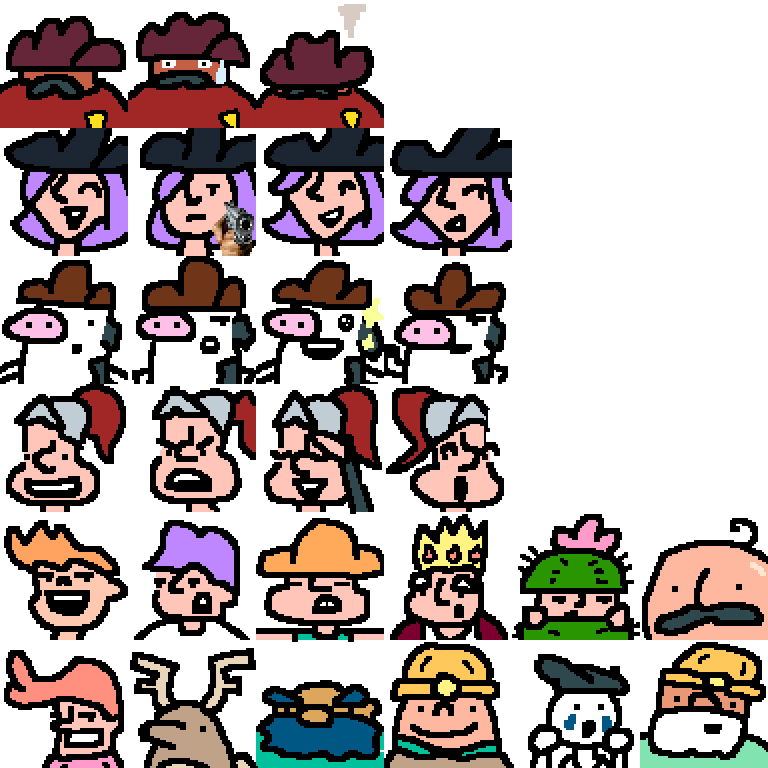
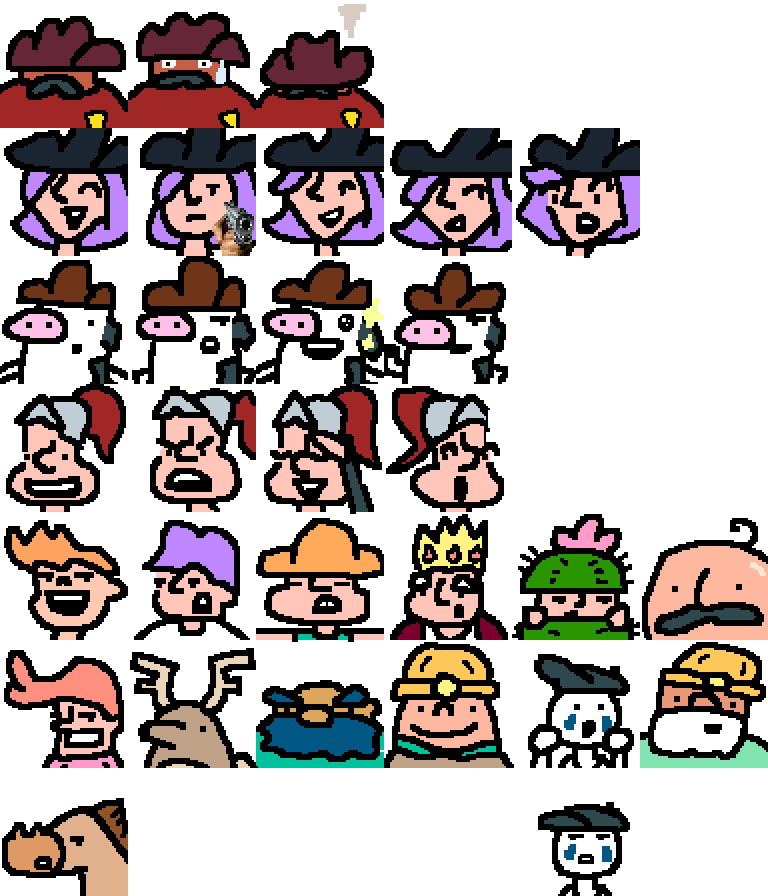
Lots of new dialog, place 1B npcs, add cubepig

diff --git a/Duel/DuelGameCartridge.cs b/Duel/DuelGameCartridge.cs
@@ -35,17 +35,17 @@ namespace Duel
             this.chapters.Add(new Chapter("level_1", PlayerTag.Type.Renegade, ZoneTileset.Thistown, Screenplay.GetConversation("renegade_intro_1A")));
             this.chapters.Add(new Chapter("level_1", PlayerTag.Type.Cowboy, ZoneTileset.Thistown, Screenplay.GetConversation("cowboy_intro_1A")));
             this.chapters.Add(new Chapter("level_1", PlayerTag.Type.Knight, ZoneTileset.Thistown, Screenplay.GetConversation("knight_intro_1A")));
-            this.chapters.Add(new Chapter("level_2", PlayerTag.Type.Sheriff, ZoneTileset.Thistown, emptyConvo));
+            this.chapters.Add(new Chapter("level_2", PlayerTag.Type.Sheriff, ZoneTileset.Thistown, Screenplay.GetConversation("sheriff_intro_1B")));
             this.chapters.Add(new Chapter("level_2", PlayerTag.Type.Renegade, ZoneTileset.Thistown, emptyConvo));
             this.chapters.Add(new Chapter("level_2", PlayerTag.Type.Cowboy, ZoneTileset.Thistown, emptyConvo));
             this.chapters.Add(new Chapter("level_2", PlayerTag.Type.Knight, ZoneTileset.Thistown, emptyConvo));
 
-            this.chapters.Add(new Chapter("level_3", PlayerTag.Type.Sheriff, ZoneTileset.Oasis, emptyConvo));
+            this.chapters.Add(new Chapter("level_3", PlayerTag.Type.Sheriff, ZoneTileset.Oasis, Screenplay.GetConversation("sheriff_intro_oasis")));
             this.chapters.Add(new Chapter("level_3", PlayerTag.Type.Renegade, ZoneTileset.Oasis, emptyConvo));
             this.chapters.Add(new Chapter("level_3", PlayerTag.Type.Cowboy, ZoneTileset.Oasis, emptyConvo));
             this.chapters.Add(new Chapter("level_3", PlayerTag.Type.Knight, ZoneTileset.Oasis, emptyConvo));
 
-            this.chapters.Add(new Chapter("level_4", PlayerTag.Type.Sheriff, ZoneTileset.Mines, emptyConvo));
+            this.chapters.Add(new Chapter("level_4", PlayerTag.Type.Sheriff, ZoneTileset.Mines, Screenplay.GetConversation("sheriff_intro_mine")));
             this.chapters.Add(new Chapter("level_4", PlayerTag.Type.Renegade, ZoneTileset.Mines, emptyConvo));
             this.chapters.Add(new Chapter("level_4", PlayerTag.Type.Cowboy, ZoneTileset.Mines, emptyConvo));
             this.chapters.Add(new Chapter("level_4", PlayerTag.Type.Knight, ZoneTileset.Mines, emptyConvo));

diff --git a/Duel/Data/Dialog/Speaker.cs b/Duel/Data/Dialog/Speaker.cs
@@ -16,6 +16,7 @@ namespace Duel.Data.Dialog
                 case "RenegadeGun": return RenegadeGun;
                 case "RenegadeSmirk": return RenegadeSmirk;
                 case "RenegadeEw": return RenegadeEw;
+                case "RenegadeShook": return RenegadeShook;
                 case "CowboyNormal": return CowboyNormal;
                 case "CowboySkeptical": return CowboySkeptical;
                 case "CowboyHope": return CowboyHope;
@@ -36,8 +37,11 @@ namespace Duel.Data.Dialog
                 case "Moleman": return Moleman;
                 case "Mime": return Mime;
                 case "Fourman": return Fourman;
-                default: return null;
+                case "Horse": return Horse;
+                case "MimeBroken": return MimeBroken;
+                default: throw new System.Exception("Invalid Speaker Name: " + name);
             }
+
         }
 
         public static Speaker SheriffNormal = new Speaker("Ernesto", 0, new DialogBlip("banjo_blip", 0.5f, 0));
@@ -47,6 +51,7 @@ namespace Duel.Data.Dialog
         public static Speaker RenegadeGun = new Speaker("Miranda", 7);
         public static Speaker RenegadeSmirk = new Speaker("Miranda", 8);
         public static Speaker RenegadeEw = new Speaker("Miranda", 8);
+        public static Speaker RenegadeShook = new Speaker("Miranda", 9);
         public static Speaker CowboyNormal = new Speaker("Steven", 12, new DialogBlip("deep_blip", 0.5f, 0f));
         public static Speaker CowboySkeptical = new Speaker("Steven", 13, new DialogBlip("deep_blip", 0.5f, -0.25f));
         public static Speaker CowboyHope = new Speaker("Steven", 14, new DialogBlip("deep_blip", 0.5f, 0.25f));
@@ -68,6 +73,8 @@ namespace Duel.Data.Dialog
         public static Speaker Moleman = new Speaker("Moleman", 34);
         public static Speaker Mime = new Speaker("????", 34);
         public static Speaker Fourman = new Speaker("Gary", 35);
+        public static Speaker Horse = new Speaker("Horse", 36);
+        public static Speaker MimeBroken = new Speaker("????", 40);
 
         // class def
 

diff --git a/Duel/Data/TemplateLibrary.cs b/Duel/Data/TemplateLibrary.cs
@@ -108,6 +108,7 @@ namespace Duel.Data
             templateLibrary.AddTemplate("house_2", new PropTemplate("props_house_2", PropTemplate.PropLayeringRule.Front));
             templateLibrary.AddTemplate("machinery", new PropTemplate("props_machinery", PropTemplate.PropLayeringRule.Front));
             templateLibrary.AddTemplate("palm_tree", new PropTemplate("props_palm_tree", PropTemplate.PropLayeringRule.Front));
+            templateLibrary.AddTemplate("cubepig", new PropTemplate("props_cubepig", PropTemplate.PropLayeringRule.Front));
 
             // Props that appear below entities
             templateLibrary.AddTemplate("city_limits", new PropTemplate("props_city_limits", PropTemplate.PropLayeringRule.Behind));
@@ -136,6 +137,11 @@ namespace Duel.Data
             templateLibrary.AddNpc(new NpcTag(NpcSprite.Sar, "sar_sheriff", "sar_renegade", "sar_cowboy", "sar_knight"));
             templateLibrary.AddNpc(new NpcTag(NpcSprite.MirandaMom, "mom_sheriff", "mom_renegade", "mom_cowboy", "mom_knight"));
             templateLibrary.AddNpc(new NpcTag(NpcSprite.Farmer, "farmer_sheriff", "farmer_renegade", "farmer_cowboy", "farmer_knight"));
+            templateLibrary.AddNpc(new NpcTag(NpcSprite.Cactus, "sneakman_sheriff", "sneakman_renegade", "sneakman_cowboy", "sneakman_knight"));
+            templateLibrary.AddNpc(new NpcTag(NpcSprite.Jackalope, "jackalope_sheriff", "jackalope_renegade", "jackalope_cowboy", "jackalope_knight"));
+            templateLibrary.AddNpc(new NpcTag(NpcSprite.EggMan, "egg_sheriff", "egg_renegade", "egg_cowboy", "egg_knight"));
+            templateLibrary.AddNpc(new NpcTag(NpcSprite.CoolHair, "hair_sheriff", "hair_renegade", "hair_cowboy", "hair_knight"));
+            templateLibrary.AddNpc(new NpcTag(NpcSprite.Mime, "mime_sheriff", "mime_renegade", "mime_cowboy", "mime_knight"));
 
             // Entities
             templateLibrary.AddTemplate("glass", new EntityTemplate(
